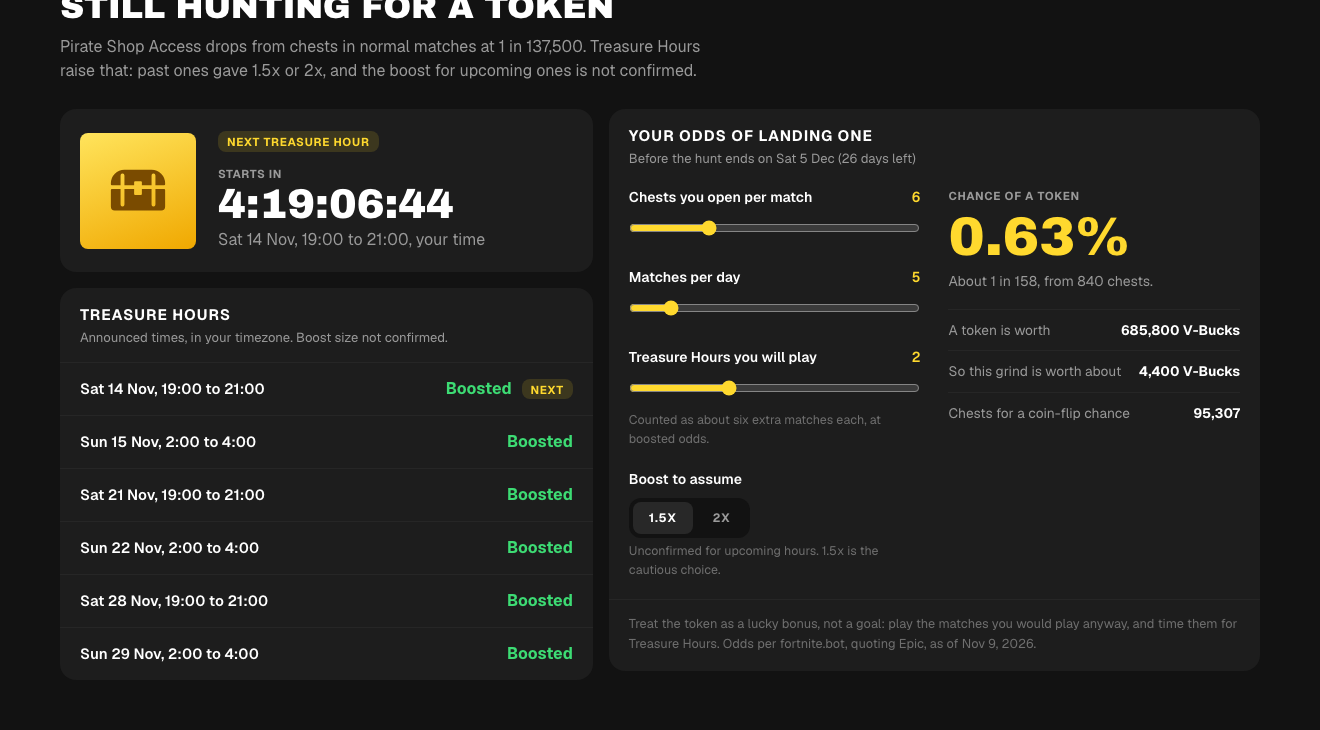
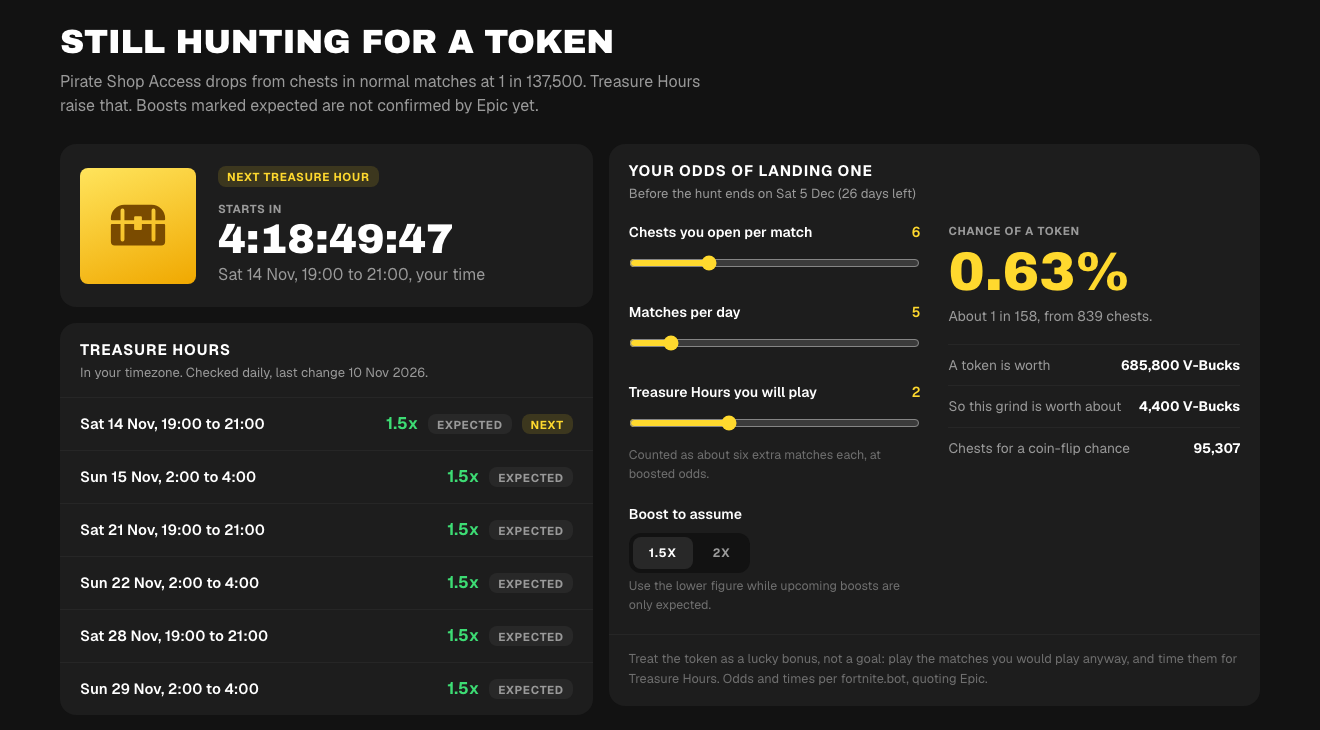
Refresh Treasure Hour data daily from fortnite.bot
A scheduled workflow run reads odds, hours and boosts, commits any change
and redeploys. Hours the source only expects are labelled as such.

diff --git a/src/components/Hunt.tsx b/src/components/Hunt.tsx
@@ -1,6 +1,6 @@
 import { useEffect, useState } from 'react';
 import { TreasureChest } from '@phosphor-icons/react';
-import { BASE_ODDS, DEFAULT_MULTIPLIER, HUNT_ENDS, SEEN_MULTIPLIERS, TREASURE_HOUR_LENGTH_H, countdown, huntOdds, upcomingTreasureHours } from '../lib/hunt.ts';
+import { BASE_ODDS, DATA_CHECKED, HUNT_ENDS, MULTIPLIER_CHOICES, countdown, huntOdds, upcomingTreasureHours, type TreasureHour } from '../lib/hunt.ts';
 import { est, fmt } from '../lib/analysis.ts';
 
 function useNow() {
@@ -10,7 +10,8 @@ function useNow() {
 }
 const dayFmt = new Intl.DateTimeFormat(undefined, { weekday: 'short', month: 'short', day: 'numeric' });
 const timeFmt = new Intl.DateTimeFormat(undefined, { hour: 'numeric', minute: '2-digit' });
-const slot = (t: number) => `${dayFmt.format(t)}, ${timeFmt.format(t)} to ${timeFmt.format(t + TREASURE_HOUR_LENGTH_H * 3600e3)}`;
+const slot = (h: TreasureHour) => `${dayFmt.format(h.start)}, ${timeFmt.format(h.start)} to ${timeFmt.format(h.end)}`;
+const checkedFmt = new Intl.DateTimeFormat(undefined, { month: 'short', day: 'numeric', year: 'numeric' }).format(new Date(DATA_CHECKED + 'T12:00:00Z'));
 
 function Slider({ id, label, value, min, max, onChange, help }: { id: string; label: string; value: number; min: number; max: number; onChange: (n: number) => void; help?: string }) {
   return (
@@ -27,11 +28,11 @@ export function Hunt({ passValue, hasLocker }: { passValue: number; hasLocker: b
   const now = useNow();
   const hours = upcomingTreasureHours(now);
   const next = hours[0];
-  const live = next !== undefined && next <= now;
+  const live = next !== undefined && next.start <= now;
   const [cpm, setCpm] = useState(6);
   const [mpd, setMpd] = useState(5);
   const [th, setTh] = useState(Math.min(2, hours.length));
-  const [mult, setMult] = useState<number>(DEFAULT_MULTIPLIER);
+  const [mult, setMult] = useState<number>(next?.multiplier ?? MULTIPLIER_CHOICES[0]);
   const odds = huntOdds({ chestsPerMatch: cpm, matchesPerDay: mpd, treasureHours: Math.min(th, hours.length), multiplier: mult }, now);
   const over = now >= HUNT_ENDS;
   const pct = odds.chance * 100;
@@ -40,7 +41,7 @@ export function Hunt({ passValue, hasLocker }: { passValue: number; hasLocker: b
   return (
     <section className="wrap section" id="hunt">
       <h2>Still hunting for a token</h2>
-      <p className="section-lede">Pirate Shop Access drops from chests in normal matches at 1 in {fmt(BASE_ODDS)}. Treasure Hours raise that: past ones gave 1.5x or 2x, and the boost for upcoming ones is not confirmed.</p>
+      <p className="section-lede">Pirate Shop Access drops from chests in normal matches at 1 in {fmt(BASE_ODDS)}. Treasure Hours raise that. Boosts marked expected are not confirmed by Epic yet.</p>
 
       <div className="hunt-grid">
         <div className="hunt-col">
@@ -51,7 +52,7 @@ export function Hunt({ passValue, hasLocker }: { passValue: number; hasLocker: b
               {next !== undefined ? (
                 <>
                   <p className="cap">{live ? 'Ends in' : 'Starts in'}</p>
-                  <p className="clock" role="timer" aria-live="off">{countdown((live ? next + TREASURE_HOUR_LENGTH_H * 3600e3 : next) - now)}</p>
+                  <p className="clock" role="timer" aria-live="off">{countdown((live ? next.end : next.start) - now)}</p>
                   <p className="muted">{slot(next)}, your time</p>
                 </>
               ) : <p className="muted next-none">No more Treasure Hours are announced.</p>}
@@ -59,13 +60,13 @@ export function Hunt({ passValue, hasLocker }: { passValue: number; hasLocker: b
           </div>
 
           <div className="card">
-            <header className="card-head"><h3>Treasure Hours</h3><p>Announced times, in your timezone. Boost size not confirmed.</p></header>
+            <header className="card-head"><h3>Treasure Hours</h3><p>In your timezone. Checked daily, last change {checkedFmt}.</p></header>
             {hours.length ? (
               <ul className="rows">
-                {hours.map((t, k) => (
-                  <li key={t}>
-                    <span className="row-main">{slot(t)}</span>
-                    <span className="row-side"><span className="up">Boosted</span>{k === 0 && <span className="badge gold">{live ? 'Live' : 'Next'}</span>}</span>
+                {hours.map((h, k) => (
+                  <li key={h.start}>
+                    <span className="row-main">{slot(h)}</span>
+                    <span className="row-side"><span className="up">{h.multiplier}x</span><span className="badge">{h.confirmed ? 'Confirmed' : 'Expected'}</span>{k === 0 && <span className="badge gold">{live ? 'Live' : 'Next'}</span>}</span>
                   </li>
                 ))}
               </ul>
@@ -84,9 +85,9 @@ export function Hunt({ passValue, hasLocker }: { passValue: number; hasLocker: b
               <div className="slider">
                 <p className="slider-title" id="mult-label">Boost to assume</p>
                 <div className="mode small" role="group" aria-labelledby="mult-label">
-                  {SEEN_MULTIPLIERS.map(m => <button key={m} type="button" aria-pressed={mult === m} onClick={() => setMult(m)}>{m}x</button>)}
+                  {MULTIPLIER_CHOICES.map(m => <button key={m} type="button" aria-pressed={mult === m} onClick={() => setMult(m)}>{m}x</button>)}
                 </div>
-                <p className="slider-help">Unconfirmed for upcoming hours. 1.5x is the cautious choice.</p>
+                <p className="slider-help">Use the lower figure while upcoming boosts are only expected.</p>
               </div>
             </div>
             <div className="odds-result" aria-live="polite">
@@ -100,7 +101,7 @@ export function Hunt({ passValue, hasLocker }: { passValue: number; hasLocker: b
               </dl>
             </div>
           </div>
-          <p className="card-foot">Treat the token as a lucky bonus, not a goal: play the matches you would play anyway, and time them for Treasure Hours. Odds per fortnite.bot, quoting Epic, as of Nov 9, 2026.</p>
+          <p className="card-foot">Treat the token as a lucky bonus, not a goal: play the matches you would play anyway, and time them for Treasure Hours. Odds and times per fortnite.bot, quoting Epic.</p>
         </div>
       </div>
     </section>

diff --git a/scripts/update_hunt.ts b/scripts/update_hunt.ts
@@ -1,0 +1,89 @@
+/**
+ * Refresh src/lib/hunt-data.json from fortnite.bot/treasure, which tracks Epic's announcements.
+ * Run daily by .github/workflows/deploy.yml.   Manual run: node scripts/update_hunt.ts
+ *
+ * The page is a Next.js app: the numbers live in one of its script chunks as plain object
+ * literals. We read them with regular expressions and refuse to write anything that fails a
+ * sanity check, so a site redesign makes this script fail loudly instead of publishing nonsense.
+ */
+import { readFileSync, writeFileSync } from 'node:fs';
+
+const SOURCE = 'https://fortnite.bot/treasure';
+const OUT = new URL('../src/lib/hunt-data.json', import.meta.url);
+const UA = 'plunder-planner-updater (+https://github.com/MuhammadMurtuzaHussain/plunder-planner)';
+const get = async (url: string) => {
+  const r = await fetch(url, { headers: { 'user-agent': UA } });
+  if (!r.ok) throw new Error(`${url} answered ${r.status}`);
+  return r.text();
+};
+
+export interface HuntHour { start: string; end: string; multiplier: number; confirmed: boolean }
+export interface HuntData { source: string; checked: string; baseOdds: number; huntEnds: string; hours: HuntHour[] }
+
+const ISO = String.raw`\d{4}-\d\d-\d\dT\d\d:\d\d:\d\dZ`;
+
+export function parse(js: string): Omit<HuntData, 'source' | 'checked'> {
+  const odds = js.match(/key:"pirateShop",oneIn:(\d+)/);
+  if (!odds) throw new Error('drop odds not found');
+  const baseOdds = Number(odds[1]);
+
+  // Confirmed hours are written out in full, with their own boosts.
+  const hours: HuntHour[] = [];
+  for (const m of js.matchAll(new RegExp(String.raw`\{start:"(${ISO})",end:"(${ISO})",boosts:\{([^{}]*)\}`, 'g'))) {
+    const boost = m[3].match(/pirateShop:([\d.]+)/);
+    if (boost) hours.push({ start: m[1], end: m[2], multiplier: Number(boost[1]), confirmed: true });
+  }
+
+  // Expected hours come from a helper: given a date it returns slots at fixed hour offsets
+  // with default boosts, flagged `expected`. Rebuild those slots here.
+  const helper = js.match(/(\w+)=\w+=>\{[^}]*?return\[((?:\{start:\w+\(\d+\),end:\w+\(\d+\),boosts:\w+,expected:!0\},?)+)\]\}/);
+  const defaults = js.match(/[,;{ ]\w+=\{(?=[^{}]*goldOutfit:)[^{}]*pirateShop:([\d.]+)[^{}]*\}/);
+  if (helper && defaults) {
+    const offsets = [...helper[2].matchAll(/start:\w+\((\d+)\),end:\w+\((\d+)\)/g)].map(o => [Number(o[1]), Number(o[2])]);
+    const name = helper[1].replace(/[$]/g, '\\$');
+    for (const call of js.matchAll(new RegExp(String.raw`\.\.\.${name}\("(\d{4}-\d\d-\d\d)"\)`, 'g'))) {
+      const day = Date.parse(call[1]);
+      const iso = (h: number) => new Date(day + h * 3600e3).toISOString().replace('.000', '');
+      for (const [a, b] of offsets) hours.push({ start: iso(a), end: iso(b), multiplier: Number(defaults[1]), confirmed: false });
+    }
+  }
+  hours.sort((a, b) => a.start.localeCompare(b.start));
+
+  // The hunt ends when its last week does.
+  const weekEnds = [...js.matchAll(new RegExp(String.raw`\{number:\d+,name:"[^"]*"[^{}]*?start:"${ISO}",end:"(${ISO})"`, 'g'))].map(m => m[1]).sort();
+  const huntEnds = weekEnds[weekEnds.length - 1];
+
+  // Sanity checks: better to fail than to publish a misread.
+  if (!(baseOdds >= 1000 && baseOdds <= 50_000_000)) throw new Error(`implausible odds: 1 in ${baseOdds}`);
+  if (!hours.length) throw new Error('no Treasure Hours found');
+  if (!huntEnds) throw new Error('hunt end date not found');
+  for (const h of hours) {
+    const len = (Date.parse(h.end) - Date.parse(h.start)) / 3600e3;
+    if (!(h.multiplier >= 1 && h.multiplier <= 20) || !(len > 0 && len <= 12) || !/^202[67]/.test(h.start)) throw new Error(`implausible Treasure Hour: ${JSON.stringify(h)}`);
+  }
+  if (new Set(hours.map(h => h.start)).size !== hours.length) throw new Error('duplicate Treasure Hours');
+  return { baseOdds, huntEnds, hours };
+}
+
+async function main() {
+  const html = await get(SOURCE);
+  const chunks = [...new Set([...html.matchAll(/\/_next\/static\/chunks\/[\w~.-]+\.js/g)].map(m => m[0]))];
+  let js: string | undefined;
+  for (const c of chunks) {
+    const text = await get(new URL(c, SOURCE).href);
+    if (text.includes('key:"pirateShop",oneIn:')) { js = text; break; }
+  }
+  if (!js) throw new Error(`treasure data not found in ${chunks.length} script files; the site layout probably changed`);
+  const fresh = parse(js);
+
+  let old: HuntData | null = null;
+  try { old = JSON.parse(readFileSync(OUT, 'utf8')); } catch { /* first run */ }
+  const same = old && JSON.stringify({ baseOdds: old.baseOdds, huntEnds: old.huntEnds, hours: old.hours }) === JSON.stringify(fresh);
+  if (same) { console.log('No change:', fresh.hours.length, 'Treasure Hours, odds 1 in', fresh.baseOdds); return; }
+  const data: HuntData = { source: SOURCE, checked: new Date().toISOString().slice(0, 10), ...fresh };
+  writeFileSync(OUT, JSON.stringify(data, null, 2) + '\n');
+  console.log('Updated hunt data:');
+  for (const h of fresh.hours) console.log(' ', h.start, `${h.multiplier}x`, h.confirmed ? 'confirmed' : 'expected');
+}
+
+if (process.argv[1]?.endsWith('update_hunt.ts')) main().catch(e => { console.error('Update failed:', e.message); process.exit(1); });

diff --git a/src/lib/hunt.ts b/src/lib/hunt.ts
@@ -1,20 +1,19 @@
 /**
  * Figures for players who do not have Pirate Shop Access yet.
- * Odds and Treasure Hour times are as published by fortnite.bot/treasure (quoting Epic) on Nov 9, 2026.
- * They are plain constants so they are easy to update if Epic changes them.
+ * The numbers live in hunt-data.json, refreshed daily from fortnite.bot/treasure by
+ * scripts/update_hunt.ts. Hours marked `confirmed: false` are the site's expectation
+ * (same slots and boost as before), not something Epic has announced.
  */
-export const BASE_ODDS = 137_500;           // 1 in N per chest opened in a normal match
-/** Boosts seen so far for Pirate Shop Access. Epic has not confirmed the boost for upcoming Treasure Hours. */
-export const SEEN_MULTIPLIERS = [1.5, 2] as const;
-export const DEFAULT_MULTIPLIER = 1.5;      // the lower, more common one
-export const TREASURE_HOUR_LENGTH_H = 2;
-export const MATCHES_PER_TREASURE_HOUR = 6; // rough: a 2-hour window fits about six matches
-export const HUNT_ENDS = Date.UTC(2026, 11, 5, 14, 0);
-export const TREASURE_HOURS: number[] = [
-  Date.UTC(2026, 10, 14, 19, 0), Date.UTC(2026, 10, 15, 2, 0),
-  Date.UTC(2026, 10, 21, 19, 0), Date.UTC(2026, 10, 22, 2, 0),
-  Date.UTC(2026, 10, 28, 19, 0), Date.UTC(2026, 10, 29, 2, 0),
-];
+import data from './hunt-data.json' with { type: 'json' };
+
+export interface TreasureHour { start: number; end: number; multiplier: number; confirmed: boolean }
+export const BASE_ODDS: number = data.baseOdds;       // 1 in N per chest opened in a normal match
+export const HUNT_ENDS = Date.parse(data.huntEnds);
+export const DATA_CHECKED: string = data.checked;
+export const TREASURE_HOURS: TreasureHour[] = data.hours.map(h => ({ start: Date.parse(h.start), end: Date.parse(h.end), multiplier: h.multiplier, confirmed: h.confirmed }));
+export const MATCHES_PER_TREASURE_HOUR = 6;           // rough: a 2-hour window fits about six matches
+/** Boosts to offer in the calculator: every value seen so far, plus the usual two. */
+export const MULTIPLIER_CHOICES: number[] = [...new Set([1.5, 2, ...TREASURE_HOURS.map(h => h.multiplier)])].sort((a, b) => a - b);
 
 export interface HuntPlan { chestsPerMatch: number; matchesPerDay: number; treasureHours: number; multiplier: number }
 export interface HuntOdds {
@@ -24,9 +23,7 @@ export interface HuntOdds {
   chestsForEven: number;   // chests needed for a 50% chance at the base rate
 }
 
-export function upcomingTreasureHours(now: number) {
-  return TREASURE_HOURS.filter(t => t + TREASURE_HOUR_LENGTH_H * 3600e3 > now);
-}
+export const upcomingTreasureHours = (now: number) => TREASURE_HOURS.filter(h => h.end > now);
 
 export function huntOdds(plan: HuntPlan, now: number): HuntOdds {
   const daysLeft = Math.max(0, (HUNT_ENDS - now) / 86400e3);

diff --git a/README.md b/README.md
@@ -79,7 +79,8 @@ npm run dev
 | `scripts/backtest.ts` | Hides a year of data and scores the forecast against what happened |
 | `src/lib/locker.ts` | Decodes a locker link (base64url, raw deflate, delta-encoded ids) |
 | `src/lib/model.ts` | Per-item chances, shop baseline and window scoring |
-| `src/lib/hunt.ts` | Drop odds and Treasure Hour times |
+| `src/lib/hunt.ts` | Drop odds and Treasure Hour maths, fed by `hunt-data.json` |
+| `scripts/update_hunt.ts` | Daily refresh of `hunt-data.json` from fortnite.bot |
 | `src/components/` | The interface |
 
 ## Refreshing the data
@@ -91,9 +92,10 @@ node scripts/train.ts
 ```
 
 fortnite.gg blocks scripted downloads, so `data/raw/fngg/all.en.js` has to be saved from a normal browser
-session at `https://fortnite.gg/data/items/all.en.js`. The drop odds and Treasure Hour times in
-`src/lib/hunt.ts` are constants and need a manual edit if Epic changes them. The Treasure Hour boost for
-upcoming hours is unconfirmed (past ones were 1.5x or 2x), so the calculator lets you choose.
+session at `https://fortnite.gg/data/items/all.en.js`. Drop odds, Treasure Hour times and boosts live in `src/lib/hunt-data.json`. A daily GitHub Action runs
+`scripts/update_hunt.ts`, which reads them from fortnite.bot/treasure, commits any change and redeploys the
+site. Hours the source only expects (not yet confirmed by Epic) are labelled as such. If the source's page
+layout changes, the script fails on purpose and GitHub emails the repository owner.
 
 ## Credits
 
